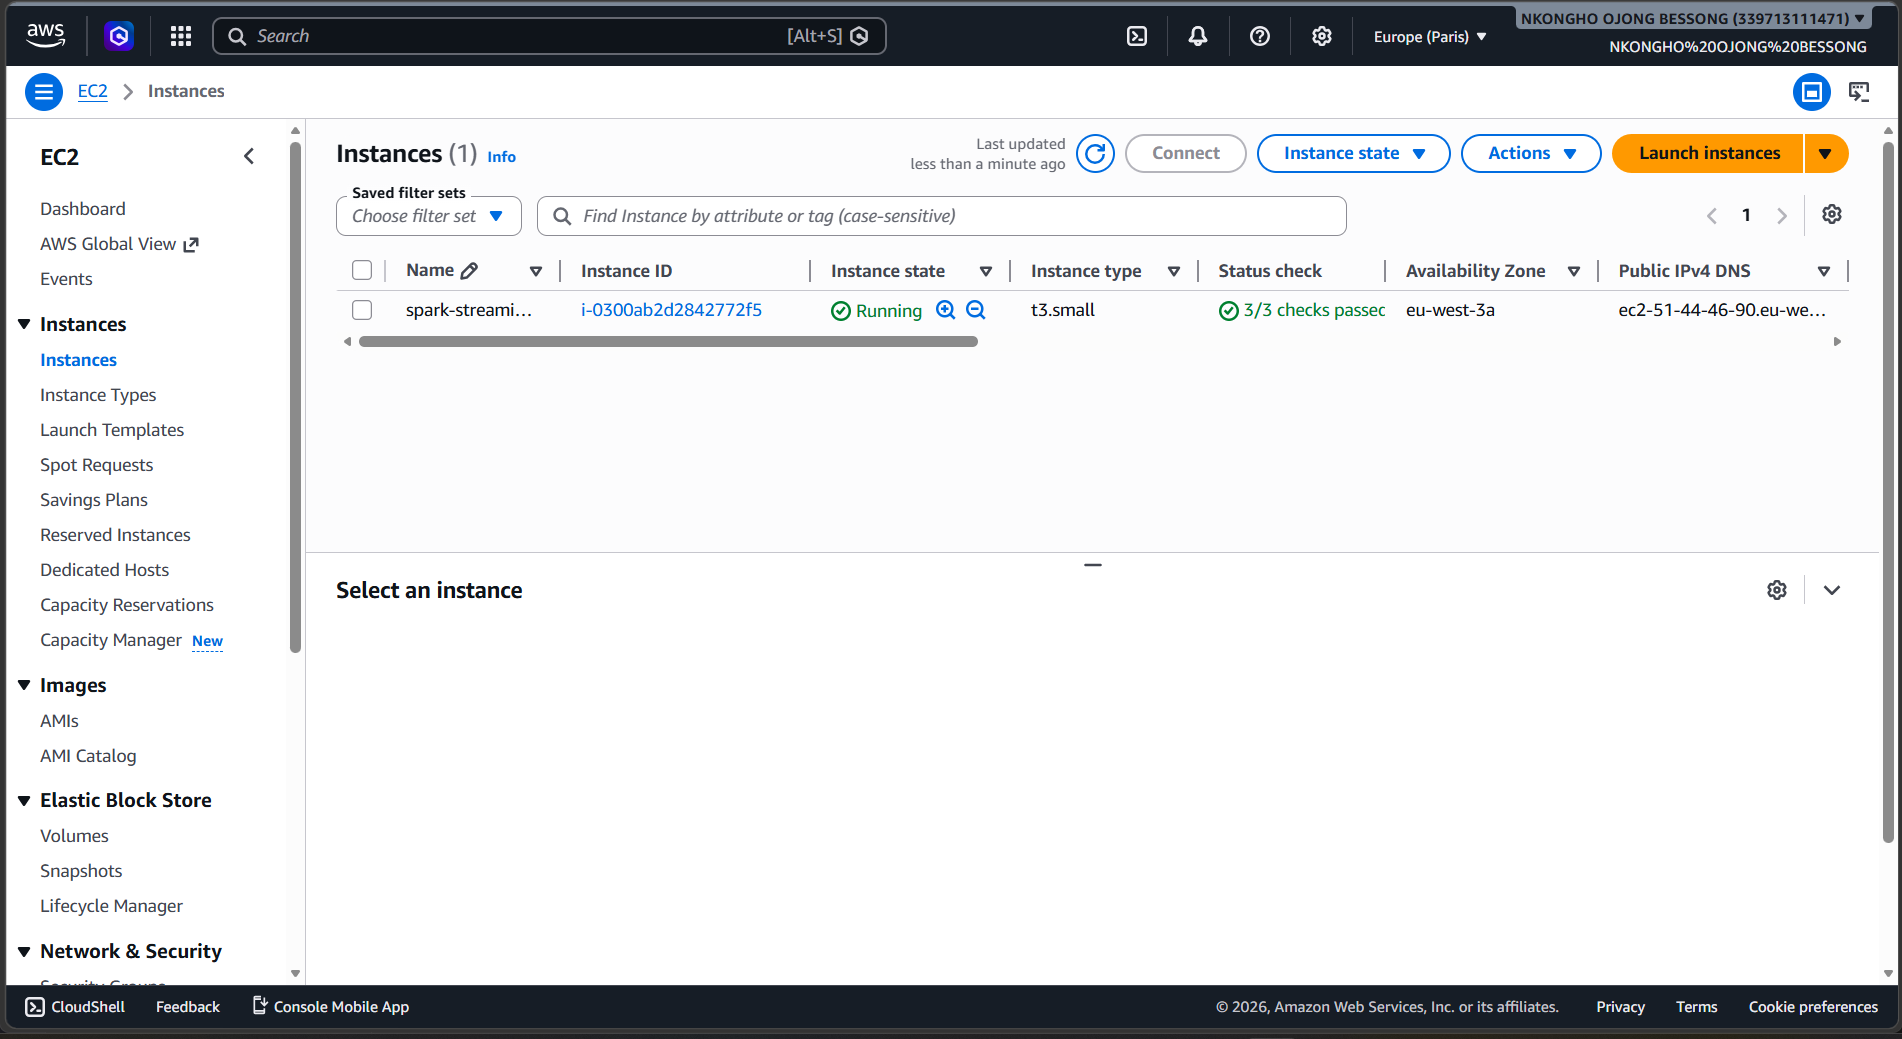
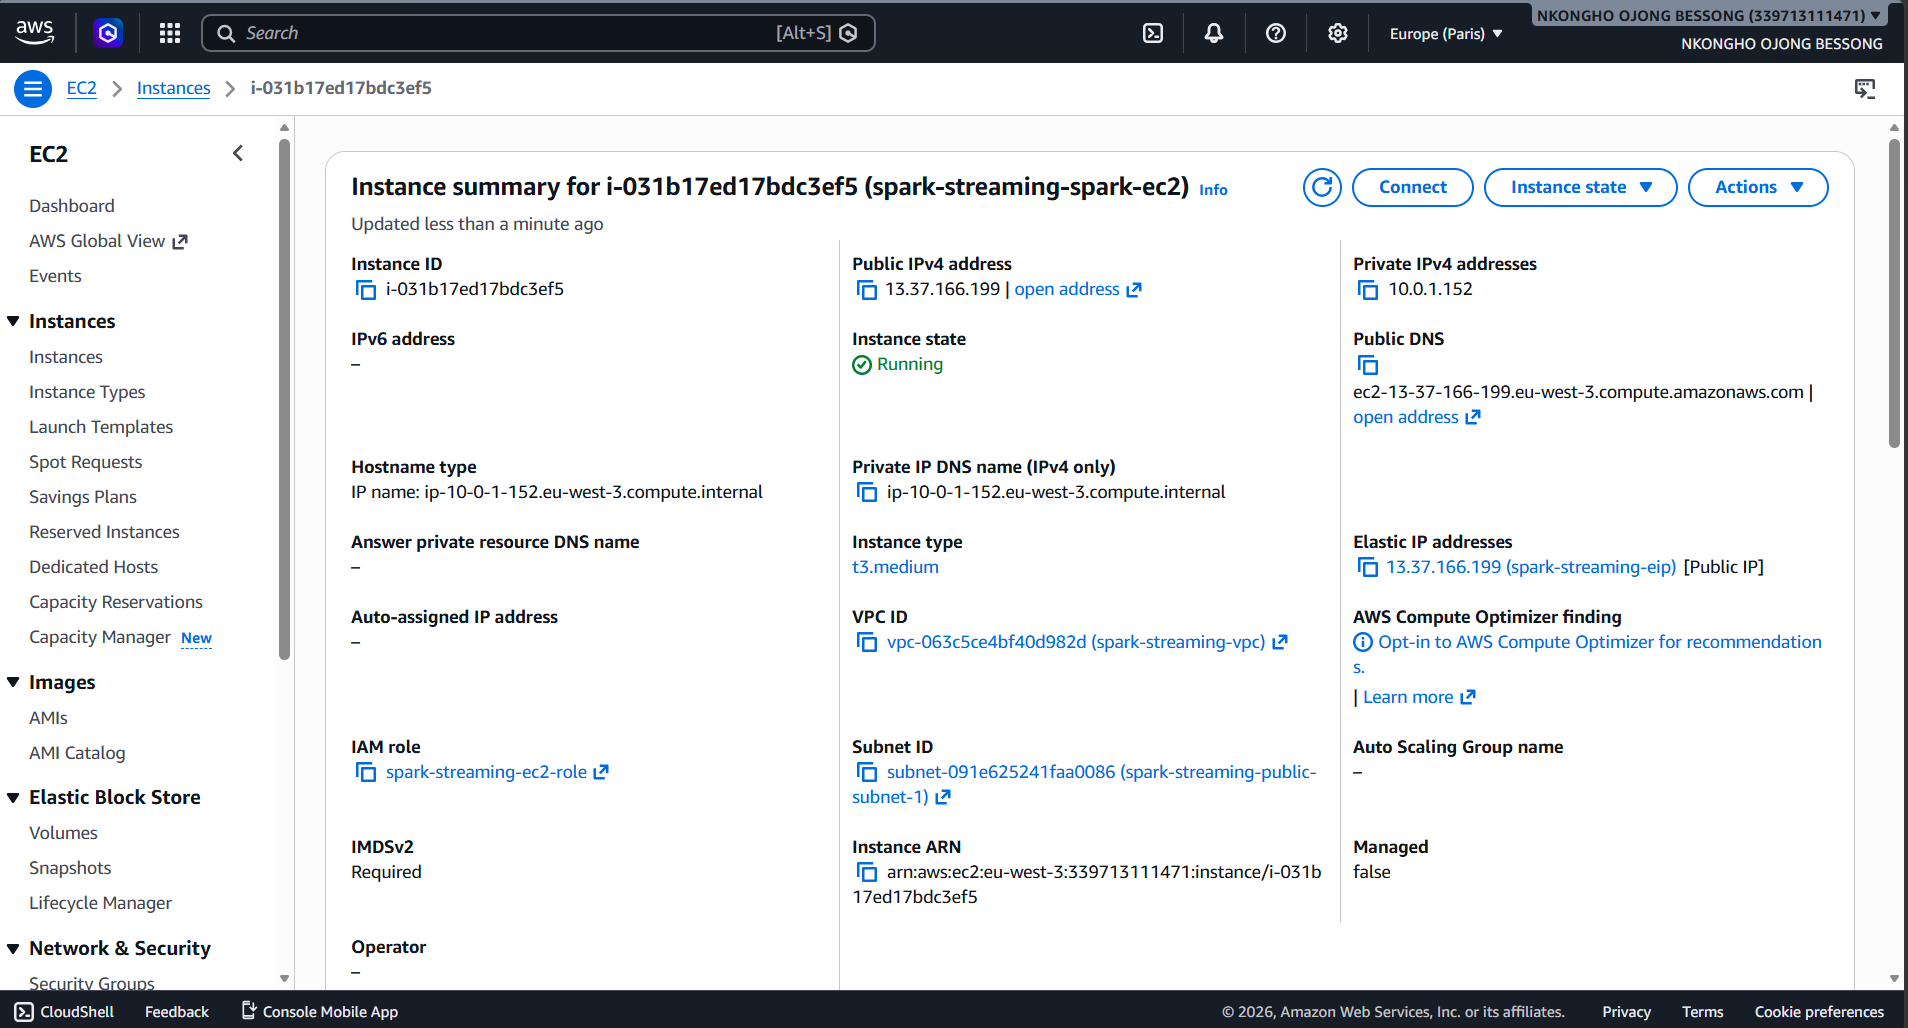
docs: update EC2 screenshots to reflect t3.medium upgrade and new IP 13.37.166.199

diff --git a/README.md b/README.md
@@ -286,11 +286,11 @@ Deploying to AWS surfaced four issues that never appeared in local Docker testin
 
 ### AWS Infrastructure — EC2 Instance Running
 ![EC2 Instances](docs/images/aws-ec2-instances.png)
-*spark-streaming-spark-ec2 — t3.medium — Running — 3/3 checks passed — eu-west-3a*
+*spark-streaming-spark-ec2 — i-031b17ed17bdc3ef5 — t3.medium — Running — 3/3 checks passed — eu-west-3a*
 
 ### AWS Infrastructure — EC2 Instance Details
 ![EC2 Instance Details](docs/images/aws-ec2-instance-details.png)
-*Elastic IP spark-streaming-eip — IAM role spark-streaming-ec2-role — spark-streaming-vpc*
+*Public IP 13.37.166.199 — Elastic IP spark-streaming-eip — IAM role spark-streaming-ec2-role — spark-streaming-vpc*
 
 ### AWS Infrastructure — S3 Delta Lake Bucket
 ![S3 Bucket](docs/images/aws-s3-bucket.png)
